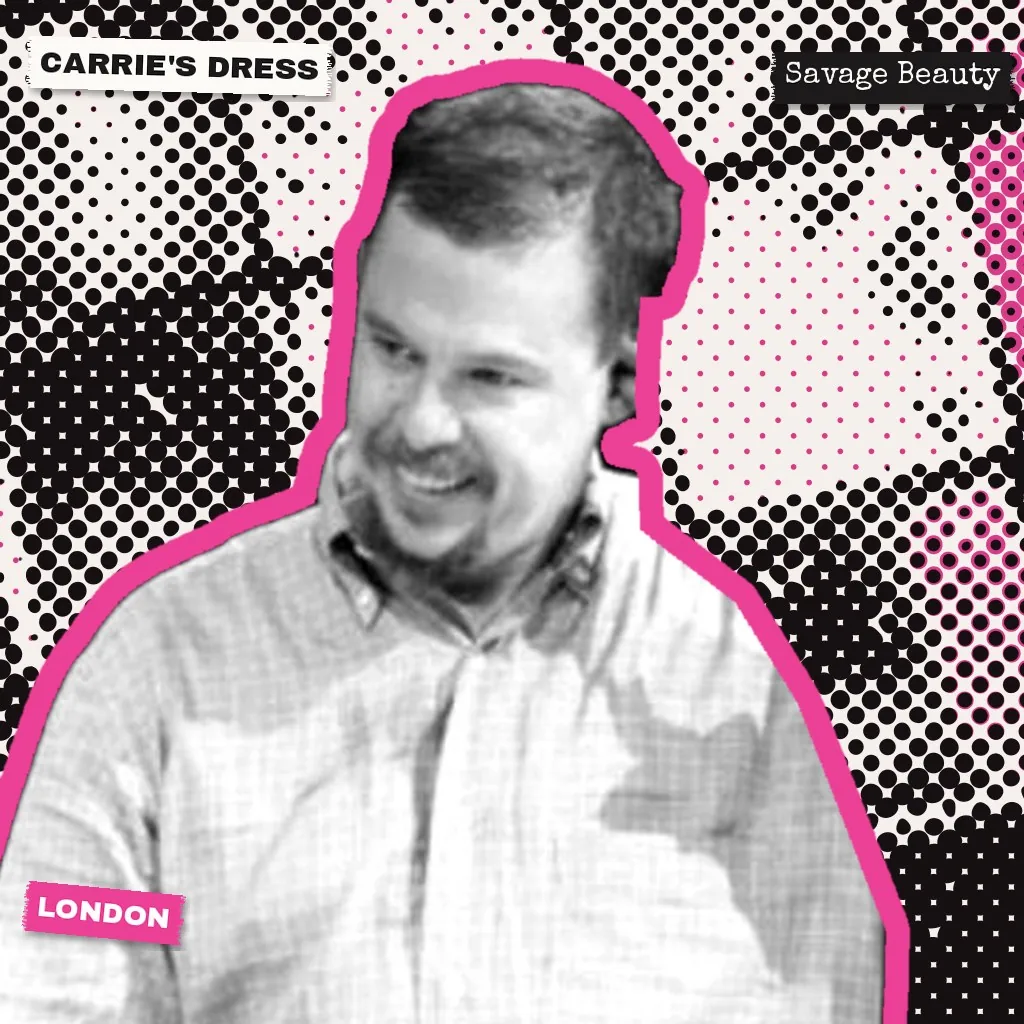
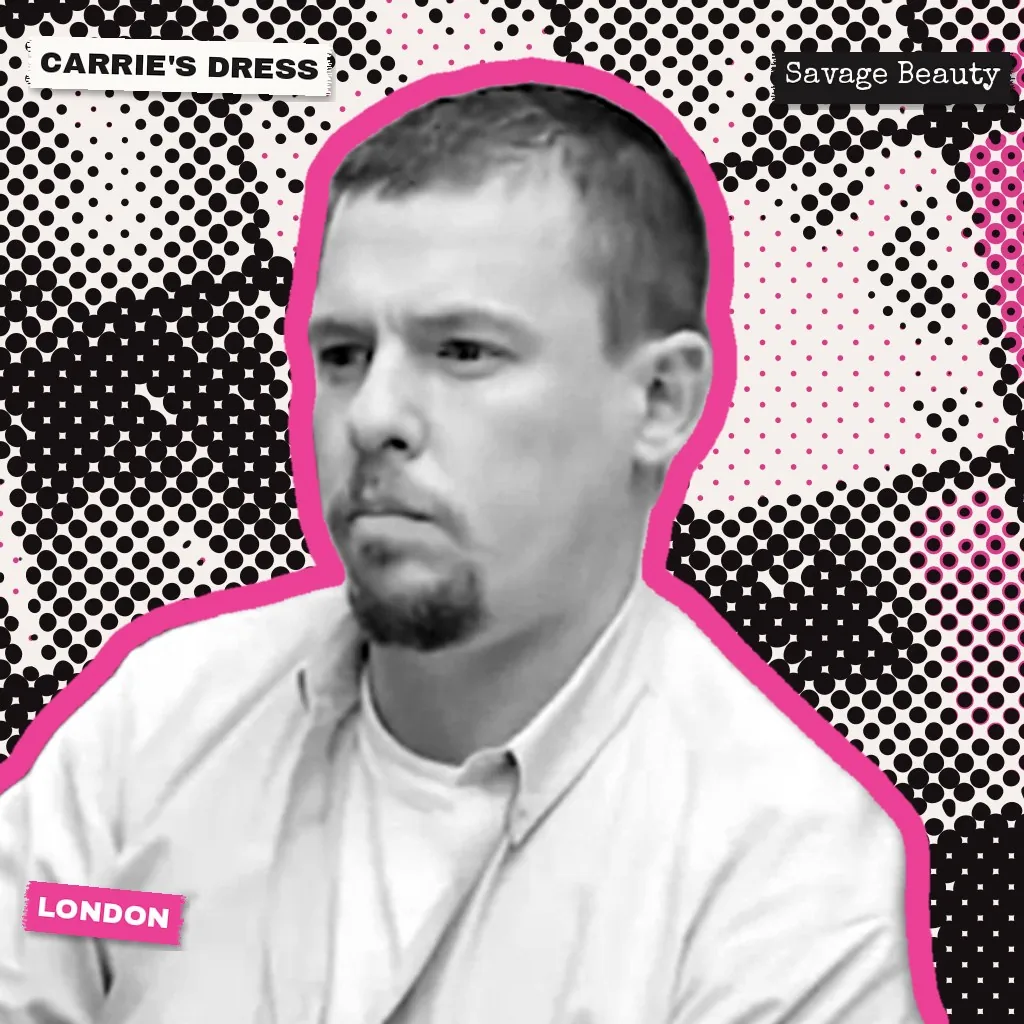
Alexander McQueen: In memoriam page, On film box, Library box and polaroid G (#224)
* Alexander McQueen: In memoriam page with 6 guest quotes, On film box (5 videos) and his Library box (McQueen documentary page)

Lisa, 28 Nov 2026: "also add a libarry and a movie box to his page".

Claude-Session: https://claude.ai/code/session_0192FespPV8cpdph9BcB77fa

* Alexander McQueen: polaroid G (Lisa's pick), from the CC BY 3.0 Nowness/Tate film still

Claude-Session: https://claude.ai/code/session_0192FespPV8cpdph9BcB77fa

* Alexander McQueen: share picture with polaroid G

Claude-Session: https://claude.ai/code/session_0192FespPV8cpdph9BcB77fa

---------

diff --git a/src/data/memoriam.ts b/src/data/memoriam.ts
@@ -693,6 +693,51 @@ export const MEMORIAM: Record<string, Memoriam> = {
     ],
     wikidata: "https://www.wikidata.org/wiki/Q6167922",
   },
+  // Lisa, 28 Nov 2026 (polaroid thread): "alexander mcqueen needs a better poloaroid, show me more options - also add a libarry and a
+  // movie box to his page". Facts: Wikipedia (Alexander McQueen, McQueen (film)), read 28 Nov 2026. Quotes: the transcripts.
+  "alexander-mcqueen": {
+    born: "1969",
+    died: "2010",
+    diedLine: "Died 11 February 2010 in London, aged 40",
+    aka: "Lee Alexander McQueen",
+    first: "McQueen",
+    story:
+      "The Savile Row-trained tailor from London who made fashion shows into theatre. Isabella Blow bought his whole graduate collection, Givenchy made him its head designer at 27, Daphne Guinness wore him, and Lauren Ezersky interviewed him in bed.",
+    timeline: [
+      ["1969", "Born Lee Alexander McQueen on 17 March in Lewisham, London"],
+      ["Late 1980s", "Two years learning coat-making with the Savile Row tailors Anderson & Sheppard, then pattern cutter at Gieves & Hawkes"],
+      ["Early 1990s", "Works for Romeo Gigli in Milan"],
+      ["1992", "His Central Saint Martins MA collection, Jack the Ripper Stalks His Victims, is bought whole by Isabella Blow"],
+      ["1995", "Highland Rape (Autumn/Winter 1995) makes his name"],
+      ["1996", "Head designer of Givenchy, after John Galliano moves to Dior; the first of his four British Designer of the Year awards"],
+      ["1999", "No. 13: Shalom Harlow in a white dress spray-painted by two robot arms on the runway"],
+      ["2000", "Sells 51% of his company to the Gucci Group"],
+      ["2009", "Plato's Atlantis, his last full collection, shown in Paris on 6 October"],
+      ["2010", "Dies in London on 11 February, aged 40. Sarah Burton takes over his label"],
+      ["2011", "Alexander McQueen: Savage Beauty at the Metropolitan Museum in New York, and in London in 2015"],
+      ["2018", "The documentary McQueen, by Ian Bonhôte and Peter Ettedgui"],
+    ],
+    liftedUp: [],
+    rooms: ["Nag Nag Nag", "Drama", "The Mercer Hotel", "Givenchy"],
+    said: [
+      { episode: "s04e06", who: "Lauren Ezersky", time: "00:03:53", context: "Her legendary Behind the Velvet Ropes interview: she called his hotel every hour until he answered", quote: "I called him up every hour on the hour at the hotel. Finally, he answered the phone, because he was out partying the night before. And I said, I'm coming over with a camera... He got out of the tub. I said, go into bed, I'll come in here with you, order your breakfast. And we just did a really great interview." },
+      { episode: "s04e06", who: "Lauren Ezersky", time: "00:05:04", context: "Where he was staying, and under what name", quote: "He was staying at the Mercer Hotel, and he wasn't staying under Alexander McQueen, because everybody would be calling. So he gave me some secret name... He was getting invitations for more parties for that night and for the next night. Everybody wanted him." },
+      { episode: "s04e01", who: "Daphne Guinness", time: "00:50:05", context: "The only designer who ever gave her clothes", quote: "He would come to my house and he would go through my closets and he would take away lots and lots of clothes. He'd say, I'll send them back. And then he'd send them back in plastic bags, and they were all in pieces... So then he would sort of make me something." },
+      { episode: "s04e01", who: "Daphne Guinness", time: "00:50:51", context: "Why she didn't mind getting her clothes back in pieces", quote: "It's fashion at its best, and art at its best is a conversation with the artist. It's give and take. And who am I to get in the way of that?" },
+      { episode: "s05e02", who: "Jodie Harsh", time: "00:15:56", context: "Who you'd see on a night at Nag Nag Nag, around 2003 and 2004", quote: "You'd get Boy George... You'd get Alexander McQueen, Galliano. It was really quite fabulous." },
+      { episode: "s03e01", who: "James St. James", time: "00:42:10", context: "James's favourite Sex and the City outfits. Patricia Field puts him right: Carrie's wedding dress in the movie was Vivienne Westwood", quote: "When I think of my favorite outfits from the show, it's the tutu in the opening that always stands out. I think it's the Alexander McQueen, the wedding dress in the movie." },
+    ],
+    also: { heading: "McQueen in the Library", names: ["McQueen (2018 film)", "Isabella Blow: Fashion Galore!", "McQueen's clothes in pieces", "Interviewing McQueen in bed"] },
+    // All five checked embeddable on YouTube, 28 Nov 2026.
+    videos: [
+      { id: "4OjX3ZbsfbU", title: "McQueen (2018) - official trailer" },
+      { id: "542vMeyma4g", title: "Cutting Up Rough - Alexander McQueen on BBC's The Works, 1997" },
+      { id: "roTTmuZXDqs", title: "Alexander McQueen and Nick Knight - The White Interview (SHOWstudio)" },
+      { id: "zhbRjfqKCYE", title: "Isabella Blow: the woman who discovered Alexander McQueen" },
+      { id: "Tr5WZzm1I7Y", title: "Isabella Blow: Fashion Galore! - Jack the Ripper Stalks His Victims (Somerset House)" },
+    ],
+    wikidata: "https://www.wikidata.org/wiki/Q207939",
+  },
   "halston": {
     born: "1932",
     died: "1990",

diff --git a/src/data/item-stories.ts b/src/data/item-stories.ts
@@ -680,6 +680,30 @@ const HAND: Record<string, ItemStory> = {
     since: [],
     sources: ["The film's credits (IMDb, TCM)", "The Dean Johnson Papers, NYU Fales Library", "Our Library publications (no reviews or mentions yet)"],
   },
+  // Lisa, 28 Nov 2026 (Alexander McQueen's Library box). Facts: Wikipedia "McQueen (film)" and TMDB, read 28 Nov 2026.
+  "mcqueen-2018-film": {
+    intro:
+      "Ian Bonhôte and Peter Ettedgui's documentary about Alexander McQueen, from the East London boy who learnt tailoring on Savile Row to the head of Givenchy and his own house, told through his shows, his own tapes and the people around him.",
+    reviews: [],
+    facts: [
+      { label: "First shown", value: "Tribeca Film Festival, 22 April 2018" },
+      { label: "Directed by", value: "Ian Bonhôte" },
+      { label: "Written and co-directed by", value: "Peter Ettedgui" },
+      { label: "Made by", value: "Misfits Entertainment and Salon Pictures" },
+      { label: "Music", value: "Michael Nyman" },
+      { label: "Length", value: "1 hour 51 minutes" },
+    ],
+    inIt: [
+      { name: "Alexander McQueen" },
+      { name: "Joseph Bennett" },
+      { name: "Magdalena Frackowiak" },
+      { name: "Jodie Kidd" },
+      { name: "Kate Moss" },
+      { name: "Bernard Arnault" },
+    ],
+    since: [],
+    sources: ["Wikipedia: McQueen (film)", "The film's credits (TMDB)", "Our Library publications (no reviews or mentions yet)"],
+  },
   "big-johnson": {
     intro:
       "Lola Rocknrolla's documentary about the wild life and mysterious death of Dean Johnson, named after a Velvet Mafia song. Dean's sister Beth is one of its producers.",
@@ -765,6 +789,7 @@ const CLIPS: Record<string, NonNullable<ItemStory["film"]>> = {
   // Dean Johnson's work (Lisa, 27 Nov 2026): Nelson Sullivan's own tape, the Velvet Mafia's video, the film's trailer.
   weenies: { id: "BswrxwRpoz8", title: "Dean and the Weenies - Bourgeois Boys, Pyramid Club, 1985", channel: "Nelson Sullivan's video archive" },
   "velvet-mafia": { id: "iIUGQ8_6Jh0", title: "Dean Johnson - Velvet Mafia (music video)", channel: "RYANISLANDfilms" },
+  "mcqueen-2018-film": { id: "4OjX3ZbsfbU", title: "McQueen - official trailer", channel: "Bleecker Street" },
   "big-johnson": { id: "bwa1ttQbXJ8", title: "The Big Johnson - trailer", channel: "Freestyle Digital Media" },
   blondie: { id: "6rkbvphNFtw", title: "Debbie Harry thanks Tish & Snooky at Blondie's induction into the Rock and Roll Hall of Fame, 2006", channel: "Manic Panic",
     note: "At Blondie's induction in 2006, Debbie Harry thanks Tish & Snooky, the backing singers in Blondie's first line-up." },

diff --git a/src/data/person-portraits.ts b/src/data/person-portraits.ts
@@ -1144,6 +1144,7 @@ export const PERSON_PORTRAITS: Record<string, PersonPortrait> = {
   "lisa-collins": { photo: lisaCollinsPhoto, polaroid: lisaCollinsPolaroid, focus: "30%", credit: "Illustration made with Gemini, not a photo" },
   // Lisa, 28 Nov 2026 ("yes zandra publish"): Gemini drawing after a reference photo (reference not on the site).
   "zandra-rhodes": { photo: zandraRhodesPhoto, polaroid: zandraRhodesPolaroid, focus: "30%", credit: "Illustration made with Gemini, not a photo" },
-  // Lisa, 28 Nov 2026: Gemini refused his real face, she picked the free 2009 runway photo (raised hand masked out), then "publish to all pending".
-  "alexander-mcqueen": { photo: alexanderMcqueenPhoto, polaroid: alexanderMcqueenPolaroid, focus: "28%", credit: "Portrait after a photo by Ed Kavishe / FashionWirePress, 2009 (CC BY 3.0), in our photocopy style" },
+  // Lisa, 28 Nov 2026: Gemini refused his real face; "alexander g" + "publish": a still from the CC BY 3.0 Nowness/Tate film of
+  // Nick Waplington's photos of him at work on The Horn of Plenty (2009), at a fitting in his light blue shirt.
+  "alexander-mcqueen": { photo: alexanderMcqueenPhoto, polaroid: alexanderMcqueenPolaroid, focus: "28%", credit: "Portrait after a still from Nick Waplington / Alexander McQueen: Working Process (Nowness for Tate, 2015, CC BY 3.0), in our photocopy style" },
 };

diff --git a/src/data/made-by.ts b/src/data/made-by.ts
@@ -564,6 +564,12 @@ export const OTHER_WORKS: Record<string, OtherWork[]> = {
   // Lisa, 27 Nov 2026: "dean's work needs cover designs and each item needs a page". Facts: the records' own sleeves and
   // labels (Discogs), the Velvet Mafia's own site and press list, the film credits (TMDB, IMDb), the NYU Fales Library's
   // Dean Johnson Papers and the flyers his sister Beth keeps (researched 27 Nov 2026).
+  // Lisa, 28 Nov 2026: "add a libarry ... box to his page". The documentary gets its own page (Moving Images).
+  "Alexander McQueen": [
+    { title: "McQueen (2018 film)", kind: "Film", role: "About him", year: 2018, card: "Film" },
+    { title: "Alexander McQueen: Savage Beauty", kind: "Book", role: "About him (the Met's exhibition book)", year: 2011 },
+    { title: "Cutting Up Rough (BBC, The Works)", kind: "TV", role: "About him", year: 1997 },
+  ],
   "Dean Johnson": [
     { title: "Dean and the Weenies – 'Chicken'", kind: "Music", role: "Wrote it, sang it", year: 1987, card: "Music" },
     { title: "Dean and the Weenies – 'F*ck You'", kind: "Music", role: "Wrote it, sang it", year: 1988, card: "Music" },

diff --git a/src/data/entities.ts b/src/data/entities.ts
@@ -42,7 +42,7 @@ const refs: Ref[] = EPISODE_REFS.flatMap(([episode, rows]) => rows.map((r) => ({
 // "(S01E07)" is kept, so each episode's on-camera look keeps its own card.
 // A few names share their plain words with another card of a different kind (the band Berlin and the city, the film
 // Morocco and the country, the film Farinelli and the singer): those keep their bracket, so each gets its own card (S04E01).
-export const OWN_CARD = new Set(["Berlin (band)", "Morocco (1930 film)", "Farinelli (1994 film)"]);
+export const OWN_CARD = new Set(["Berlin (band)", "Morocco (1930 film)", "Farinelli (1994 film)", "McQueen (2018 film)"]);
 const clean = (n: string) =>
   n
     .replace(/\s*\(([^)]*)\)/g, (m, inner: string) =>
